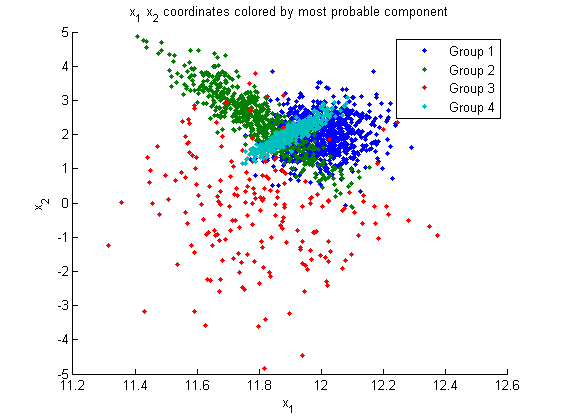
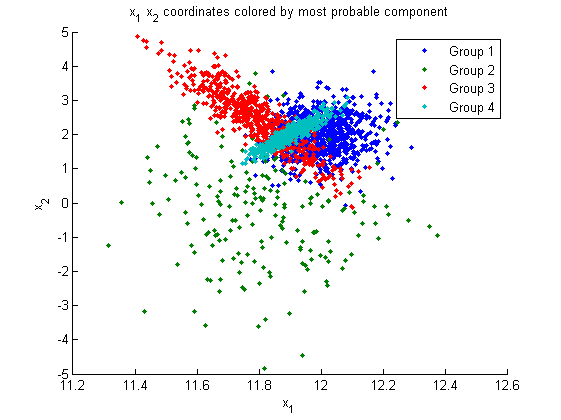
finished 2' '

diff --git a/Assignment 4/EM.m b/Assignment 4/EM.m
@@ -119,7 +119,8 @@ for it =1:100
     end
     
     fprintf('Log likelihood is %1.4f in iteration %d. \n',loglikelihood(it+1), it)
-   
+    %mu
+    %Nk
 
 end
     
@@ -130,7 +131,7 @@ end
 % xlabel('Iteration')
 % ylabel('Log likelihood')
 
-
+%%
 
 figure; hold on; 
 [argvalue, argmax] = max(gamma');
@@ -144,4 +145,46 @@ title('x_1 x_2 coordinates colored by most probable component')
 xlabel('x_1')
 ylabel('x_2')
 legend('Group 1', 'Group 2','Group 3','Group 4')
+hold off;
+
+
+%% Calculate expectations for 4 samples
+A = [11.85, 2.2, 0.5, 4.0];
+B = [11.95, 3.1, 0.0, 1.0];
+C = [12.00, 2.5, 0.0, 2.0];
+D = [12.00, 3.0, 1.0, 6.3];
+samples = [A;B;C;D];
+gamma4 = zeros(4,K);
+for n = 1:4
+    sum_K = 0;
+    for i = 1:K
+        sum_K = sum_K + pi_k(i)*gauss(samples(n,:),mu(i,:),reshape(Sigma(i,:,:),[4,4]));
+    end
+
+    for i = 1:K
+        gamma4(n,i) = pi_k(i)*gauss(samples(n,:),mu(i,:),reshape(Sigma(i,:,:),[4,4])) / sum_K;
+    end
+end
+
+%%
+figure; hold on; 
+[argvalue, argmax] = max(gamma');
+[argvalue, argmax4] = max(gamma4');
+colors = {'b.','g.', 'r.','c.'} ;
+colorf = {'b','g', 'r','c'} ;
+
+for i = 1:K
+    scatter(X(argmax==i,1),X(argmax==i,2), colors{i})
+end
+legend('Group 1', 'Group 2','Group 3','Group 4')
+for i = 1:K
+    scatter(samples(argmax4==i,1),samples(argmax4==i,2),100,'k','LineWidth',1,'MarkerFaceColor',colorf{i})
+end  
+text(A(1),A(2),'A','FontSize',18,'FontWeight','bold')
+text(B(1),B(2),'B','FontSize',18,'FontWeight','bold')
+text(C(1),C(2),'C','FontSize',18,'FontWeight','bold')
+text(D(1),D(2),'D','FontSize',18,'FontWeight','bold')
+title('x_1 x_2 coordinates colored by most probable component')
+xlabel('x_1')
+ylabel('x_2')
 hold off;
